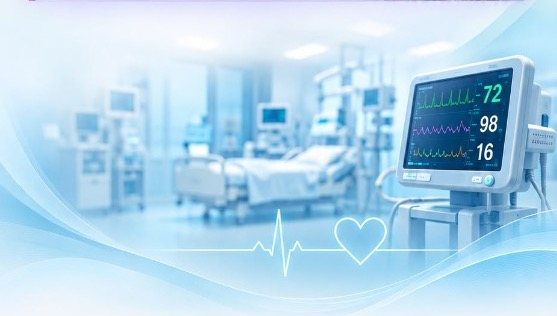
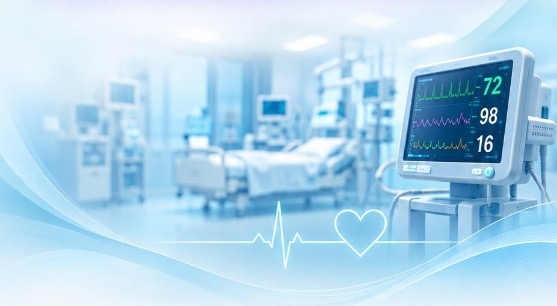
fix(quick-hub): make monitor illustration completely edgeless and seamlessly blended into page background

diff --git a/js/app.js b/js/app.js
@@ -5457,46 +5457,33 @@ function QuickHubView({ standards, onSelectStandard, onLogout }) {
         })}
       </div>
 
-      {/* Blended Clinical ICU Patient Monitor Illustration */}
+      {/* Seamless Ambient Monitor Illustration - Edgeless, borderless, blending directly into the page background */}
       <div
-        className="quick-hub-monitor-box mt-3 mb-2 w-100 position-relative overflow-hidden text-center mx-auto"
+        className="quick-hub-monitor-ambient w-100 position-relative text-center mx-auto mt-1 mb-2"
         style={{
-          borderRadius: '20px',
-          boxShadow: '0 8px 24px -4px rgba(2, 132, 199, 0.16)',
-          border: '1.5px solid rgba(186, 230, 253, 0.55)',
-          background: 'linear-gradient(180deg, rgba(255, 255, 255, 0.9) 0%, rgba(240, 249, 255, 0.7) 100%)',
-          maxWidth: '580px'
+          maxWidth: '580px',
+          background: 'transparent',
+          border: 'none',
+          boxShadow: 'none',
+          pointerEvents: 'none',
+          overflow: 'hidden'
         }}
       >
         <img
           src="assets/quick-hub-monitor.jpg"
-          alt="Intensivpflege Patientenmonitor &amp; Bettplatz"
-          className="w-100 d-block"
+          alt="Intensivpflege Patientenmonitor"
+          className="quick-hub-monitor-ambient-img w-100 d-block"
           style={{
             objectFit: 'cover',
-            maxHeight: '270px',
-            maskImage: 'linear-gradient(to bottom, transparent 0%, black 14%, black 86%, transparent 100%)',
-            WebkitMaskImage: 'linear-gradient(to bottom, transparent 0%, black 14%, black 86%, transparent 100%)'
+            maxHeight: '260px',
+            border: 'none',
+            outline: 'none',
+            boxShadow: 'none',
+            background: 'transparent',
+            maskImage: 'radial-gradient(ellipse 95% 75% at 50% 50%, black 35%, rgba(0, 0, 0, 0.8) 55%, rgba(0, 0, 0, 0.25) 78%, transparent 100%)',
+            WebkitMaskImage: 'radial-gradient(ellipse 95% 75% at 50% 50%, black 35%, rgba(0, 0, 0, 0.8) 55%, rgba(0, 0, 0, 0.25) 78%, transparent 100%)'
           }}
         />
-        <div
-          className="position-absolute bottom-0 start-0 end-0 py-1.5 px-3 d-flex align-items-center justify-content-center gap-1.5"
-          style={{
-            background: 'linear-gradient(to top, rgba(255, 255, 255, 0.92) 0%, rgba(255, 255, 255, 0) 100%)'
-          }}
-        >
-          <span
-            className="badge rounded-pill fw-semibold"
-            style={{
-              background: 'rgba(2, 132, 199, 0.12)',
-              color: '#0369a1',
-              fontSize: '0.68rem',
-              border: '1px solid rgba(2, 132, 199, 0.22)'
-            }}
-          >
-            <i className="bi bi-activity text-danger me-1"></i>Patientenmonitoring &bull; Evidenzbasierte Leitfäden
-          </span>
-        </div>
       </div>
     </div>
   );

diff --git a/css/styles.css b/css/styles.css
@@ -1233,12 +1233,27 @@ body {
   overflow: hidden;
 }
 
-.quick-hub-monitor-box {
+.quick-hub-monitor-ambient {
   width: 100% !important;
   max-width: 580px;
   margin-left: auto !important;
   margin-right: auto !important;
   box-sizing: border-box !important;
+  background: transparent !important;
+  border: none !important;
+  box-shadow: none !important;
+  pointer-events: none;
+}
+
+.quick-hub-monitor-ambient-img {
+  width: 100% !important;
+  border: none !important;
+  box-shadow: none !important;
+  outline: none !important;
+  background: transparent !important;
+  pointer-events: none;
+  -webkit-mask-image: radial-gradient(ellipse 95% 75% at 50% 50%, black 35%, rgba(0, 0, 0, 0.8) 55%, rgba(0, 0, 0, 0.25) 78%, transparent 100%);
+  mask-image: radial-gradient(ellipse 95% 75% at 50% 50%, black 35%, rgba(0, 0, 0, 0.8) 55%, rgba(0, 0, 0, 0.25) 78%, transparent 100%);
 }
 
 .quick-hub-label-card:hover {
@@ -2235,9 +2250,11 @@ button, a.btn, .btn, .quick-hub-label-card, .nav-standard-link, .standard-tile, 
     border-radius: 16px !important;
   }
 
-  .quick-hub-monitor-box {
+  .quick-hub-monitor-ambient {
     width: 100% !important;
-    border-radius: 16px !important;
+    background: transparent !important;
+    border: none !important;
+    box-shadow: none !important;
   }
 
   .a4-procedure-tile {
